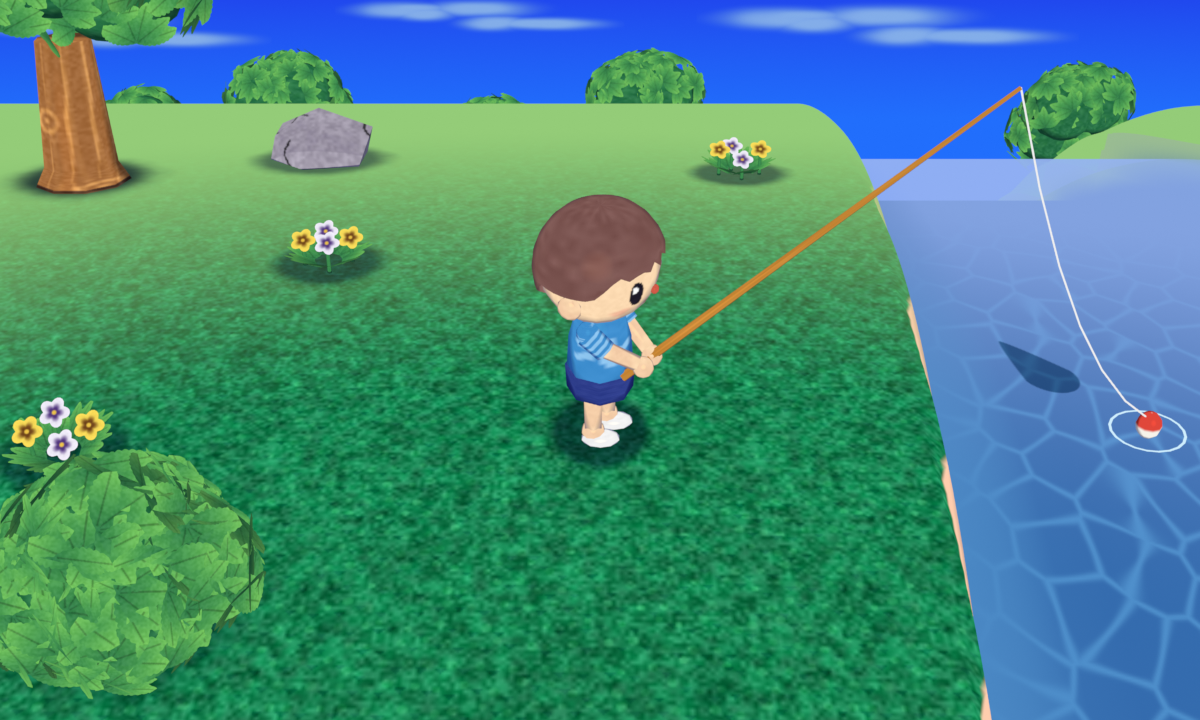
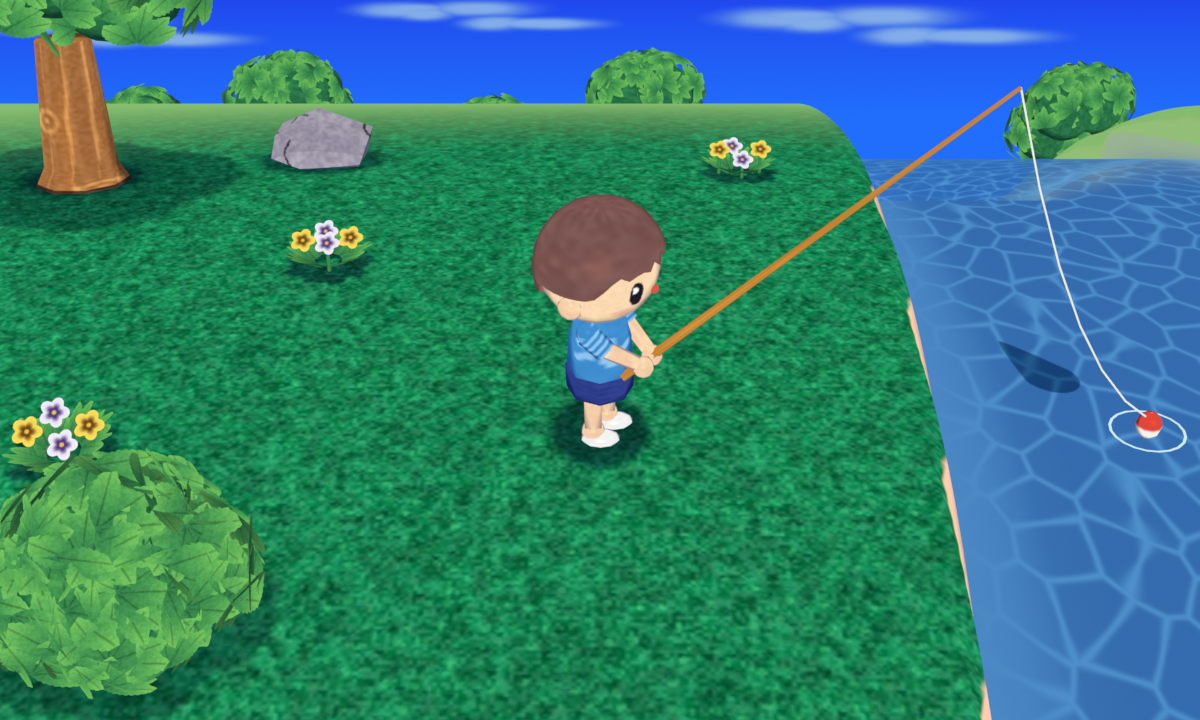
Town test scene: original haze, silhouette shaped object shadows
Haze returns to the original ground only setting. Trees, bushes and
flower clumps now cast shadows rasterised from their own top down
silhouette (leaf and petal alpha included), grown and softened, on
subdivided decals that follow the rolling log ground. Player and rock
keep round blobs. Blueprint 16.15 records the method and QA.

Claude-Session: https://claude.ai/code/session_017uV2ZEHp81Umsc7vn6nowa

diff --git a/style_test_town/town_river_test.py b/style_test_town/town_river_test.py
@@ -83,7 +83,7 @@ PAL = {
     "grass": "#0D7541", "grass_dark": "#026637", "grass_light": "#3E9A5C", "grass_print": "#005A3D",
     # M 16.3: spring and summer near grass (#026637 to #107442), darker print p10 #005A3D; round dot motif (by eye,
     # S#1341, 1246, 1351), dot colour E. Haze target between the measured far bands #94CC78 and #B5E36B.
-    "haze": "#A8DC70",
+    "haze": "#9FCE60",                               # original haze target (user's retail capture far ground)
     "cliff_lit": "#FFCEAE", "cliff_shade": "#BA8B8B",                   # M section 4.2
     "water": "#316BAF", "water_shallow": "#5AA2DD", "foam": "#ECF2F8",  # M 16.4: river #316BAF, shallow band, foam line
     "foliage": "#4A9C52", "foliage_dark": "#287046", "foliage_light": "#82D362",  # M section 7.3
@@ -214,9 +214,12 @@ def ground_distance_at_row(row, R, h, d):
 
 
 _FAR = tangent_distance(LOG_R, CAM_H, CAM_D)
-HAZE_NEAR = ground_distance_at_row(HORIZON_ROW + 100 / 240, LOG_R, CAM_H, CAM_D)   # 16.3: 100 rows below the horizon
-HAZE_FAR = ground_distance_at_row(HORIZON_ROW + 8 / 240, LOG_R, CAM_H, CAM_D)   # full haze 8 rows below the horizon
-HAZE_MAX = 1.0                                        # tuned on the render to the 16.3 far over near ratio
+# Haze: the ORIGINAL setting (user's choice): ground only, from halfway between the feet and the visible ground edge
+# to the edge, mixed up to 0.8 toward #9FCE60. (The section 16.3 tuned variant reached a 2.12 far over near ratio.)
+_NEAR = math.hypot(CAM_D, CAM_H)
+HAZE_NEAR = _NEAR + 0.5 * (_FAR - _NEAR)
+HAZE_FAR = _FAR
+HAZE_MAX = 0.8
 
 
 def bend_array(co):
@@ -331,7 +334,11 @@ def tex_leaves():
         sel = field > alpha
         col[sel] = leafcol[sel]
         alpha = np.maximum(alpha, field)
+    ALPHAS["leaves"] = alpha
     return make_image("T_Leaves", grain(col, 0.04), alpha)
+
+
+ALPHAS = {}
 
 
 def tex_flower(main, blotch):
@@ -349,6 +356,7 @@ def tex_flower(main, blotch):
     col = col * (1 - eye[..., None]) + hexc("#F2C94C") * eye[..., None]
     lines = smoothstep(0.04, 0.0, np.abs(np.sin(5 * a))) * (t < 0.7) * (t > 0.2)
     col = col * (1 - 0.2 * lines[..., None])
+    ALPHAS["flower"] = alpha
     return make_image(f"T_Flower_{main}", grain(col, 0.03), alpha)
 
 
@@ -804,7 +812,7 @@ def water_mat(T):
     whz.interpolation_type = "SMOOTHSTEP"
     link(nt, wcd.outputs["View Distance"], whz.inputs["Value"])
     whz.inputs["From Min"].default_value, whz.inputs["From Max"].default_value = HAZE_NEAR, HAZE_FAR
-    whz.inputs["To Min"].default_value, whz.inputs["To Max"].default_value = 0.0, HAZE_MAX
+    whz.inputs["To Min"].default_value, whz.inputs["To Max"].default_value = 0.0, 0.0   # original: no haze on water
     wmx = nt.nodes.new("ShaderNodeMix")
     wmx.data_type = "RGBA"
     link(nt, whz.outputs["Result"], wmx.inputs[0])
@@ -916,6 +924,100 @@ def leaf_cards(bm, uv, center, radius, n, size, rng, squash=0.9):
             lp[uv].uv = q
 
 
+def raster_footprint(objs, cx, cy, half, res=160):
+    """Project meshes straight down onto the ground and rasterise their footprint (row 0 = min y). Cards use their
+    texture alpha (binary test at 0.5) so leaf and petal cut outs shape the shadow."""
+    mask = np.zeros((res, res))
+    for ob, alpha in objs:
+        me = ob.data
+        co = np.array([v.co[:] for v in me.vertices]) + np.array(ob.location)
+        uvl = me.uv_layers.active if alpha is not None else None
+        for poly in me.polygons:
+            vi = list(poly.vertices)
+            li = list(poly.loop_indices)
+            for t in range(1, len(vi) - 1):
+                k3 = (0, t, t + 1)
+                P = co[[vi[k] for k in k3]]
+                px_ = (P[:, 0] - (cx - half)) / (2 * half) * res
+                py_ = (P[:, 1] - (cy - half)) / (2 * half) * res
+                x0, x1 = max(0, int(np.floor(px_.min()))), min(res - 1, int(np.ceil(px_.max())))
+                y0, y1 = max(0, int(np.floor(py_.min()))), min(res - 1, int(np.ceil(py_.max())))
+                if x1 < x0 or y1 < y0:
+                    continue
+                d = (py_[1] - py_[2]) * (px_[0] - px_[2]) + (px_[2] - px_[1]) * (py_[0] - py_[2])
+                if abs(d) < 1e-9:
+                    continue
+                gx, gy = np.meshgrid(np.arange(x0, x1 + 1) + 0.5, np.arange(y0, y1 + 1) + 0.5)
+                l0 = ((py_[1] - py_[2]) * (gx - px_[2]) + (px_[2] - px_[1]) * (gy - py_[2])) / d
+                l1 = ((py_[2] - py_[0]) * (gx - px_[2]) + (px_[0] - px_[2]) * (gy - py_[2])) / d
+                l2 = 1 - l0 - l1
+                inside = (l0 >= 0) & (l1 >= 0) & (l2 >= 0)
+                if uvl is not None:
+                    UV = np.array([uvl.data[li[k]].uv[:] for k in k3])
+                    u = l0 * UV[0, 0] + l1 * UV[1, 0] + l2 * UV[2, 0]
+                    v = l0 * UV[0, 1] + l1 * UV[1, 1] + l2 * UV[2, 1]
+                    ah, aw = alpha.shape
+                    ai = np.clip(((1 - v) * ah).astype(int), 0, ah - 1)       # numpy alpha rows run top down
+                    aj = np.clip((u * aw).astype(int), 0, aw - 1)
+                    inside &= alpha[ai, aj] > 0.5
+                sub = mask[y0:y1 + 1, x0:x1 + 1]
+                mask[y0:y1 + 1, x0:x1 + 1] = np.maximum(sub, inside)
+    return mask
+
+
+def soften(mask, grow=3, blur=3):
+    """Grow the footprint a little (so it shows around the object from the high camera) and soften its edge."""
+    m = mask.copy()
+    for _ in range(grow):
+        p = np.pad(m, 1)
+        m = np.maximum.reduce([p[1:-1, 1:-1], p[:-2, 1:-1], p[2:, 1:-1], p[1:-1, :-2], p[1:-1, 2:]])
+    for _ in range(blur):
+        p = np.pad(m, 1, mode="edge")
+        m = sum(p[i:i + m.shape[0], j:j + m.shape[1]] for i in range(3) for j in range(3)) / 9
+    return m
+
+
+PROFILE_SHADOWS = []          # (name, centre x, centre y, half size, mask) for QA
+
+
+def profile_shadow(col, name, objs, cx, cy, z, half, key, core=0.0):
+    """Shadow decal shaped like the object's top down silhouette (trees, bushes, flowers: 'they tend to match the
+    profile of the feature'). Multiply decal like the blobs (section 3 and 15), optionally darker toward the centre."""
+    res = 160
+    m = soften(raster_footprint(objs, cx, cy, half, res))
+    if core:
+        yy, xx = (np.mgrid[0:res, 0:res] + 0.5) / res * 2 - 1
+        m = m * (1 - core + core * np.clip(1 - np.hypot(xx, yy), 0, 1))
+    PROFILE_SHADOWS.append((name, cx, cy, half, m))
+    img = make_image(f"T_{name}", np.ones((res, res, 3)), m[::-1])
+    mat = bpy.data.materials.new(f"M_{name}")
+    nt = mat.node_tree
+    nt.nodes.clear()
+    out = nt.nodes.new("ShaderNodeOutputMaterial")
+    t = nt.nodes.new("ShaderNodeTexImage")
+    t.image, t.interpolation, t.extension = img, "Linear", "CLIP"
+    mx = nt.nodes.new("ShaderNodeMix")
+    mx.data_type = "RGBA"
+    link(nt, t.outputs["Alpha"], mx.inputs[0])
+    mx.inputs[6].default_value = (1, 1, 1, 1)
+    mx.inputs[7].default_value = (*(c ** 2.2 for c in SHADOW_MUL[key]), 1)
+    tr = nt.nodes.new("ShaderNodeBsdfTransparent")
+    link(nt, mx.outputs[2], tr.inputs["Color"])
+    link(nt, tr.outputs[0], out.inputs["Surface"])
+    mat.surface_render_method = "BLENDED"
+    # a 16 x 16 grid, not one quad: the rolling log bend would sink a large flat quad's middle under the ground
+    bm, uv = new_bm()
+    n = 16
+    grid = [[bm.verts.new((cx - half + 2 * half * i / n, cy - half + 2 * half * j / n, z)) for i in range(n + 1)]
+            for j in range(n + 1)]
+    for j in range(n):
+        for i in range(n):
+            f = bm.faces.new((grid[j][i], grid[j][i + 1], grid[j + 1][i + 1], grid[j + 1][i]))
+            for lp, q in zip(f.loops, ((i, j), (i + 1, j), (i + 1, j + 1), (i, j + 1))):
+                lp[uv].uv = (q[0] / n, q[1] / n)
+    return mesh_object(name, bm, col, [mat], smooth=False)
+
+
 def build_tree(col, M, x, y, height, rng):
     z0 = terrain_h(x, y)
     bm, uv = new_bm()
@@ -931,14 +1033,14 @@ def build_tree(col, M, x, y, height, rng):
     bm, uv = new_bm()
     for c, r in lobes:
         bm_sphere(bm, uv, c, r * 0.82, scale=(1, 1, 0.9), segs=12, rings=7)        # dark core fills gaps
-    mesh_object("TreeCore", bm, col, [M["foliage_core"]])
+    core_ob = mesh_object("TreeCore", bm, col, [M["foliage_core"]])
     bm, uv = new_bm()
     for c, r in lobes:
         leaf_cards(bm, uv, c, r, 46, 0.36, rng)
-    mesh_object("TreeLeaves", bm, col, [M["leaves"]])
-    half_w = 0.30 + 0.46                                # lobe offset plus lobe radius
-    rr = CANOPY_SHADOW_FRAC * half_w
-    blob(col, M["canopy"], "TreeShadow", (x, y, z0 + 0.012), rr, rr * 0.9)
+    leaves_ob = mesh_object("TreeLeaves", bm, col, [M["leaves"]])
+    # canopy shadow follows the canopy outline seen from above (leaf cut outs included), darker toward the trunk
+    profile_shadow(col, "TreeShadow", [(core_ob, None), (leaves_ob, ALPHAS["leaves"])], x, y, z0 + 0.012, 1.1,
+                   "canopy", core=0.35)
     blob(col, M["contact"], "TrunkContact", (x, y, z0 + 0.016), 0.40, 0.36)
 
 
@@ -959,7 +1061,7 @@ def build_flowers(col, M, x, y, rng):
         f = bm.faces.new(vs)
         for lp, q in zip(f.loops, ((0.3, 0.0), (0.7, 0.0), (0.95, 0.75), (0.05, 0.75))):
             lp[uv].uv = q
-    mesh_object("FlowerLeaves", bm, col, [M["leaves"]])
+    parts = [(mesh_object("FlowerLeaves", bm, col, [M["leaves"]]), ALPHAS["leaves"])]
     for k in range(4):
         a = 2 * math.pi * k / 4 + rng.uniform(0, 0.5)
         px, py = x + 0.11 * math.cos(a), y + 0.09 * math.sin(a)
@@ -978,8 +1080,8 @@ def build_flowers(col, M, x, y, rng):
         f = bm.faces.new(vs)
         for lp, q in zip(f.loops, ((0, 0), (1, 0), (1, 1), (0, 1))):
             lp[uv].uv = q
-        mesh_object("FlowerHead", bm, col, [M["flower_a"] if k % 2 else M["flower_b"]])
-    blob(col, M["contact"], "FlowerShadow", (x, y, z0 + 0.01), 0.32, 0.28)
+        parts.append((mesh_object("FlowerHead", bm, col, [M["flower_a"] if k % 2 else M["flower_b"]]), ALPHAS["flower"]))
+    profile_shadow(col, "FlowerShadow", parts, x, y, z0 + 0.01, 0.38, "contact")
 
 
 def build_rock(col, M, x, y, s):
@@ -1006,13 +1108,13 @@ def build_bush(col, M, x, y, r, rng):
     bm, uv = new_bm()
     for c, rr in lobes:
         bm_sphere(bm, uv, c, rr * 0.82, segs=12, rings=7)
-    mesh_object("BushCore", bm, col, [M["foliage_core"]])
+    core_ob = mesh_object("BushCore", bm, col, [M["foliage_core"]])
     bm, uv = new_bm()
     for c, rr in lobes:
         leaf_cards(bm, uv, c, rr, 40, 0.30, rng)
-    mesh_object("BushLeaves", bm, col, [M["leaves"]])
-    blob(col, M["canopy"], "BushShadow", (x, y, z0 + 0.012), 1.25 * r, 1.05 * r)
-    blob(col, M["contact"], "BushContact", (x, y, z0 + 0.016), 0.9 * r, 0.75 * r)
+    leaves_ob = mesh_object("BushLeaves", bm, col, [M["leaves"]])
+    profile_shadow(col, "BushShadow", [(core_ob, None), (leaves_ob, ALPHAS["leaves"])], x, y, z0 + 0.012, 1.4 * r,
+                   "canopy", core=0.35)
 
 
 # Horizon tree line beyond the bend tangent so trunk bases sink (section 9 rule 3); 5 trees (rule 5: 4 to 6).
@@ -1499,11 +1601,21 @@ def qa(png, info):
     cf, cg = sample(pf), sample(pg)
     # object shadows (section 3): flower clump ground and near tree canopy shadow vs open grass beside them
     L = lambda c: 0.2126 * c[0] + 0.7152 * c[1] + 0.0722 * c[2]
+    def south_point(name_, cx_, cy_):
+        """First point south of the object (toward the camera) where its shadow mask exceeds 0.85."""
+        for nm, sx, sy, half, m in PROFILE_SHADOWS:
+            if nm.startswith(name_) and abs(sx - cx_) < 1e-6 and abs(sy - cy_) < 1e-6:
+                res = m.shape[0]
+                col_ = res // 2
+                for row in range(0, res // 2):
+                    if m[row, col_] > 0.85:
+                        return (sx, sy - half + (row + 2.5) / res * 2 * half)
+        return (cx_, cy_)
+    fp = south_point("FlowerShadow", *FLOWERS[0])
+    tp = south_point("TreeShadow", NEAR_TREES[0][0], NEAR_TREES[0][1])
     for name, at_, ref, target in (
-            ("flower clump ground", (FLOWERS[0][0] + 0.12, FLOWERS[0][1] - 0.14),
-             (FLOWERS[0][0] + 0.12, FLOWERS[0][1] - 0.75), "0.68"),
-            ("tree canopy shadow rim", (NEAR_TREES[0][0] + 0.05, NEAR_TREES[0][1] - 0.37),
-             (NEAR_TREES[0][0] + 1.25, NEAR_TREES[0][1] - 0.37), "0.77 to 0.84 near the rim, darker inside")):
+            ("flower clump shadow (south edge)", fp, (fp[0], fp[1] - 0.45), "0.68"),
+            ("tree canopy shadow (south edge)", tp, (tp[0] + 1.3, tp[1]), "0.77 to 0.84 near the rim, darker inside")):
         ps = world_to_camera_view(sc, cam, bend_point(Vector((at_[0], at_[1], 0.0))))
         pr = world_to_camera_view(sc, cam, bend_point(Vector((ref[0], ref[1], 0.0))))
         print(f"QA {name}: luminance ratio {L(sample(ps)) / max(L(sample(pr)), 1e-6):.2f} (NL#946 {target})")

diff --git a/style_blueprint/BLUEPRINT.md b/style_blueprint/BLUEPRINT.md
@@ -1334,3 +1334,17 @@ where a 240 row figure is quoted):
   because its sky strip is unobstructed. Treat the 2% envelope (7.1) as a ground and object rule, not a sky rule.
 * Night and dusk water: grading the day water colour leaves it lavender; use the measured time of day water colours
   (dusk #3C5596, night #0E1D53) as the base and haze toward the same family. Render medians: dusk #40558F, night #132265.
+
+### 16.15 Test scene revisions after review (user direction)
+
+* Haze returned to the ORIGINAL test scene setting at the user's request: ground only, from halfway between the
+  player's feet and the visible ground edge to the edge, mixed up to 0.8 toward #9FCE60 (the user's retail capture far
+  ground); no haze on water. Ground only pass ratio 1.26 (the 16.3 tuned variant reached 2.12; both are documented).
+* Object shadows follow the object's profile: trees, bushes and flower clumps cast a decal shaped like their top down
+  silhouette (the user's observation of the captures: player and rock shadows may be round, but trees and flowers
+  match the feature's outline). Method: rasterise the object's triangles projected straight down, testing leaf and
+  petal card texture alpha at 0.5, grow the footprint 3 px and blur 3 px (160 px mask), multiply decal with the
+  canopy or contact values, canopy darker toward the centre (35%). Decals must be subdivided (16 x 16): a single large
+  flat quad sinks under the rolling log ground in its middle (sagitta L^2 / 8R, about 0.05 P for 2.2 P at R 13 P)
+  and disappears. Render QA: flower clump south edge 0.78 (target 0.68), near tree south edge 0.67 (target 0.77 to
+  0.84 at the rim, darker inside). Player and rock keep round blobs.
